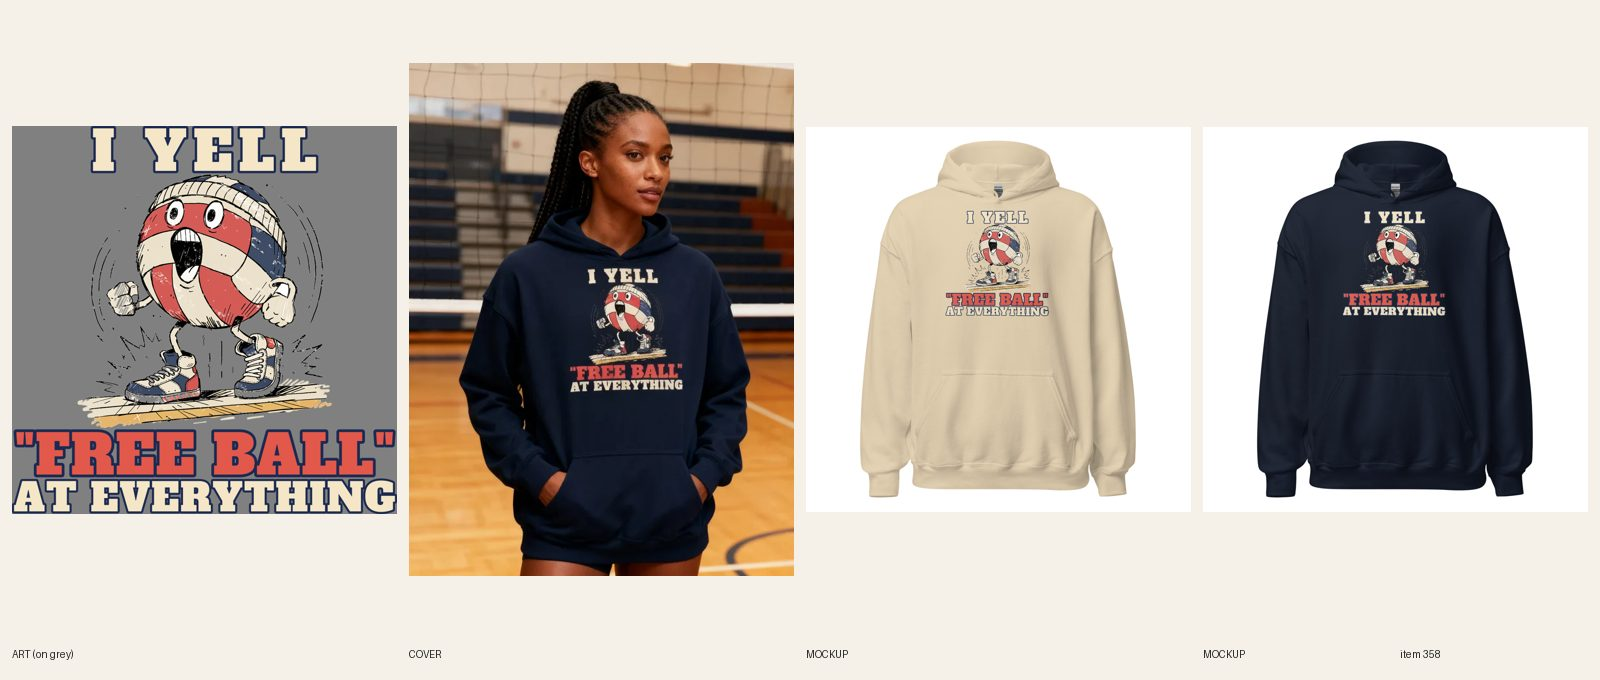
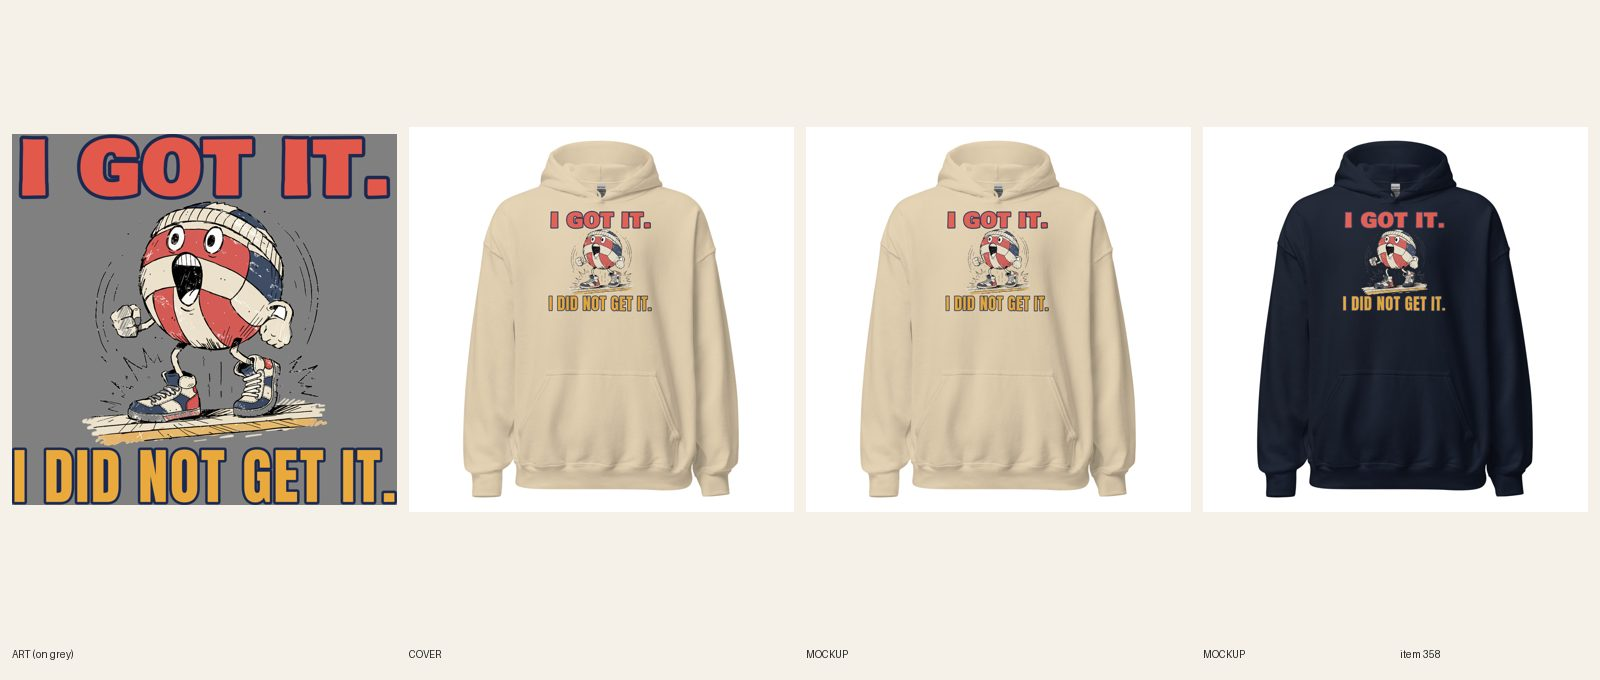
[B] review 358 I Got It volleyball hoodie (type+line redo)
Claude-Session: https://claude.ai/code/session_011c1VFrPopryniBEAa1zJNT

Changed region(s): [[0.0, 0.0926, 0.5, 0.8647], [0.8125, 0.3088, 0.9062, 0.4632], [0.5938, 0.3088, 0.6562, 0.4632]]

diff --git a/designs/b358/mk.py b/designs/b358/mk.py
@@ -1,0 +1,4 @@
+import json,re
+S='<h3>The Story</h3>\n<p>I GOT IT. over I DID NOT GET IT.: this volleyball hoodie is for the player who calls every ball loud and clear and then watches it hit the floor, worn at practice, in the bleachers and on the long drive home from tournament weekend.</p>\n<p>A cartoon volleyball in a terry headband and high-top sneakers stands ready with its mouth wide open mid-shout, speed lines all around, under I GOT IT. in giant red capitals and I DID NOT GET IT. in mustard capitals, both outlined in navy. Original art, made for Graphic Tees Co. and printed the day you order it.</p>\n'
+D=open('/dev/stdin').read() if False else None
+import urllib.request

diff --git a/docs/pipeline/358-volleyball-hoodie-bump-set-nap.md b/docs/pipeline/358-volleyball-hoodie-bump-set-nap.md
@@ -1,4 +1,4 @@
-status: BUILDING [B] 2026-10-20 02:32
+status: REVIEW
 lane: B
 type: new
 id: 358
@@ -33,3 +33,4 @@ kd: 35
 - 2026-10-17 21:04 UTC builder [B]: synced 12/12. REVIEW. Sheet docs/review/358.jpg.
 - 2026-10-17 21:19 UTC director: LIVE. sheet seen: shouting volleyball, I YELL "FREE BALL" AT EVERYTHING reads on both; cover woman in a gym by the net. ACTIVE + Online Store, Headless, Google & YouTube; audit --handle PASS.
 - 2026-10-18 17:22 UTC director: QUALITY RESET grade C (new line + type), REDO. The product stays ACTIVE (same handle, URL, title keyword). 1. Line (R3.12, quality-reset 'Lines'): "I YELL / "FREE BALL" / AT EVERYTHING": Volleyball insider call; strangers need it explained. Write 5 candidates, keep the one a stranger laughs at in 3 seconds without backstory; kill lines that only describe the picture; if none of the 5 is funny, PARK it. 2. Quality reset type bar (docs/backlog/quality-reset.md, 'The new bar'): headline at least 90% of the art width, heavy, colors pulled from the art; second line at least 45% of the headline's height, never a thin script on a dark or mid garment; use the lettering as a shape (arch, stacked lockup, words breaking into the art), not a plain bar above and a script line below; no font used on more than 1 in 6 of the last 30 designs. 3. Keep the art if it carries the new line, else one new illustration (R4/R5). New print means a new cover per R6.10, copy line one rewritten for the new joke (R8.3), and a fresh review sheet (R7.7). While quality-reset.md says PAUSED, only lane A builds, and only the samples step 2 names.
+- 2026-10-20 03:10 UTC builder [B]: REDO 358 (C grade, line + type) done on the existing product (stays ACTIVE, handle unchanged). 5 candidates: "I GOT IT. / I DID NOT GET IT."; "I'm Not Yelling, I'm Setting"; "Mine. No, Yours. No, Mine."; "Loud On Purpose"; "I Yell Free Ball at Everything" (old, insider). Kept I GOT IT. / I DID NOT GET IT. (3-second laugh, the shouting ball carries it). Same art (white gap between legs knocked out, 100000). designs/b358/spec.json: I GOT IT. Bowlby One red #e2584a full print width above, I DID NOT GET IT. Anton mustard #e9a93c below (about 50% of headline height), navy outline; no cream fill so no light file (R5.3.8 n/a). Printful file 1090110113 (3393x3268), FW 1500 TOP 0, 12/12 synced, back logo 1080398177. Sand and Navy fronts replaced in place via fileUpdate, alts updated. Shopify: title "Women's Volleyball – I Got It. I Did Not Get It. Hoodie", SEO, copy (line one on the print words + who + when, no superlative), FAQs 5 x 48-54 words incl. Dec 8, ink named from the mockups (red, mustard, navy outline). Cover: handle added to retired-covers.json, plain product shot. audit --handle PASS 0 warn; astro build OK. fal $0. Sheet docs/review/358.jpg.

diff --git a/docs/intake-log.md b/docs/intake-log.md
@@ -1,5 +1,5 @@
-RUNNING lane B since 2026-10-20 02:32 UTC
 RUNNING lane A since 2026-10-20 02:28 UTC
+2026-10-20 03:10 UTC — [B] Builder run: redid #358 Women's Volleyball hoodie (type+line: I GOT IT. / I DID NOT GET IT., same shouting-ball art, 12/12 synced on 1090110113, 2 fronts replaced in place, copy updated, plain product shot). REVIEW. fal $0. Lock released.
 RUNNING lane C since 2026-10-20 02:23 UTC
 2026-10-20 02:17 UTC — [D] Director run (RESUMED). Took over a stale 22:12 lock (that run left no commits). Inbox: nothing new since the 17:55 note. LIVE 6 (cap): #385 #434 #487 #523 #538 #544 (approved 21:14 and held; all already ACTIVE + Online Store, Headless, Google & YouTube; audit --handle PASS 0 warn on all 6). Reviewed 10 new type-redo sheets (#336 #414 #474 #477 #481 #501 #558 #579 #632 #649), all at the new bar side by side with 493 and 483/479 (#477 cuff file read directly: SAID NOTHING. 0.31 in caps); approved and held at REVIEW. Shopify copy fixes (R8.3): #336 Story and meta said 'cookie jar', the art shows a teapot and one wrapped present; #474 meta said 'varsity lettering', now 'western'. No REDO. READY: A 13, B 12, C 12 (E 5); no new briefs needed. Overnight digest sent to Sam (48 redesigns live since midday). Held for next runs, in order: #548 #578 #618 #336 #414 #474 #477 #481 #501 #558 #579 #632 #649, then the 31 add-ons. Note: no builder commits since 22:13 UTC; lane B/C/E locks and BUILDING claims #358 #507 #650 are stale (helper's stuck-work check). Lock released.
 2026-10-19 22:06 UTC — [A] Builder run: redid #477 Women's Clocked It embroidered crewneck (type only: cat kept, heavy slab CLOCKED IT. at full cat width, SAID NOTHING. block letters on the cuff, white thread, 17/17 resynced, 4 images replaced in place, copy updated, plain product shot; fixed broken retired-covers.json comma). REVIEW. fal $0. Lock released.
